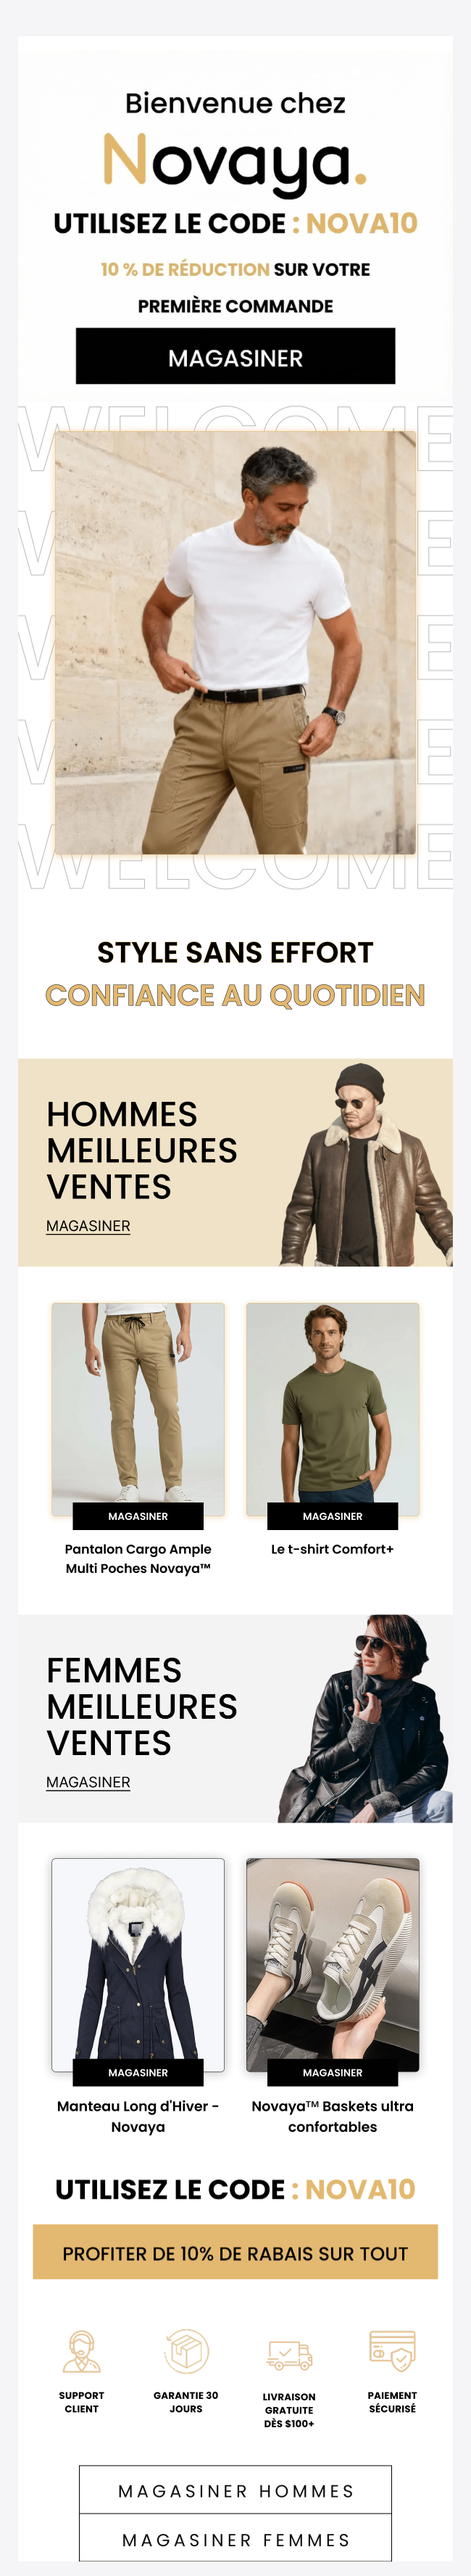
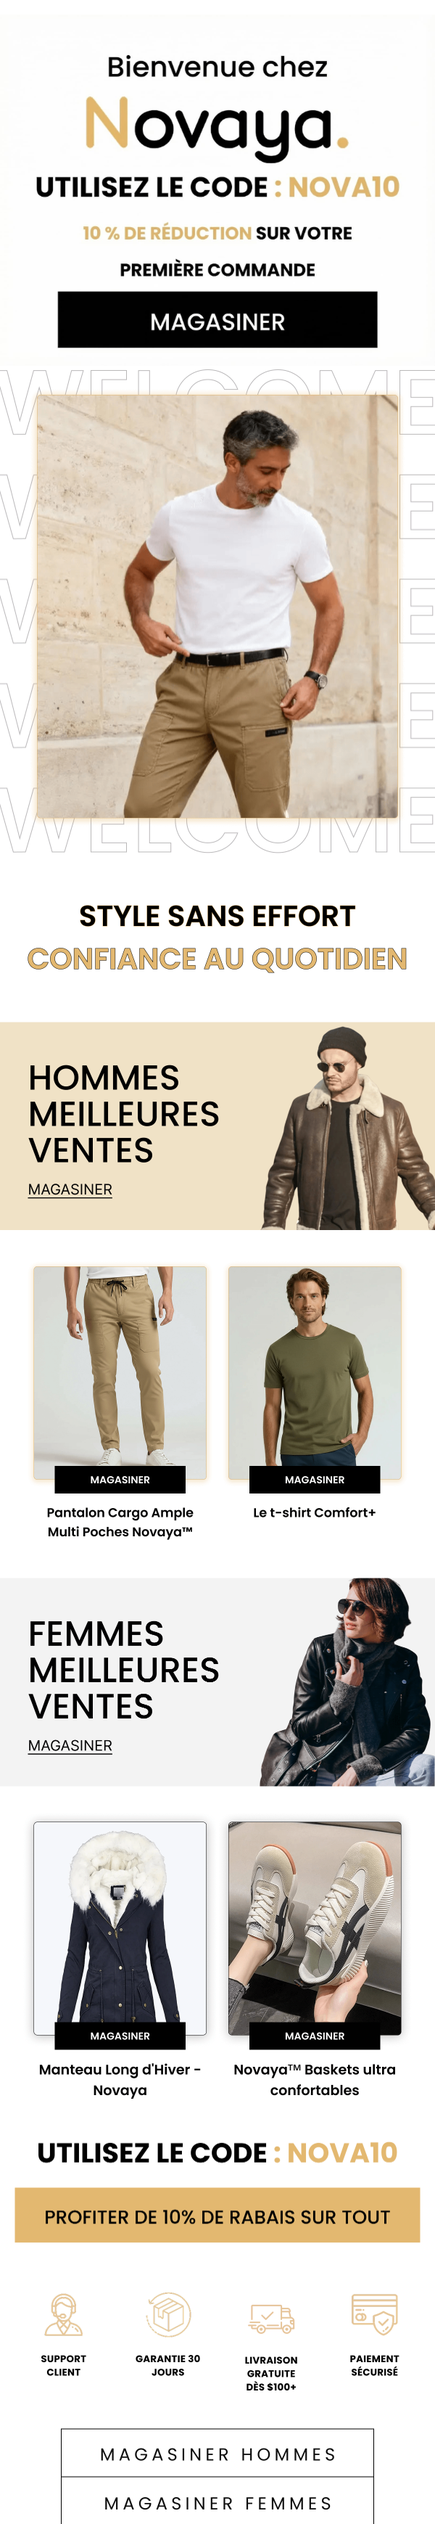
Trim outer margin from Novaya welcome-email screenshot
The raw screenshot had a ~25-50px light-grey body margin baked in
around the actual email content, which showed up as unwanted padding
inside the gallery scroll box even with zero CSS padding. Cropped it
out so the email content now sits flush against the container edges.

Changed region(s): [[0.0, 0.0, 1.0, 1.0]]

diff --git a/src/lib/content.ts b/src/lib/content.ts
@@ -198,8 +198,8 @@ export const caseStudies: CaseStudy[] = [
       {
         src: "/case-studies/novaya/welcome-email.png",
         alt: "The rebuilt Novaya welcome email, showing the discount offer, hero product photography, and best-seller product grid",
-        width: 650,
-        height: 3549,
+        width: 600,
+        height: 3478,
         caption: "The rebuilt welcome email, the single highest-revenue flow in the account",
       },
     ],
